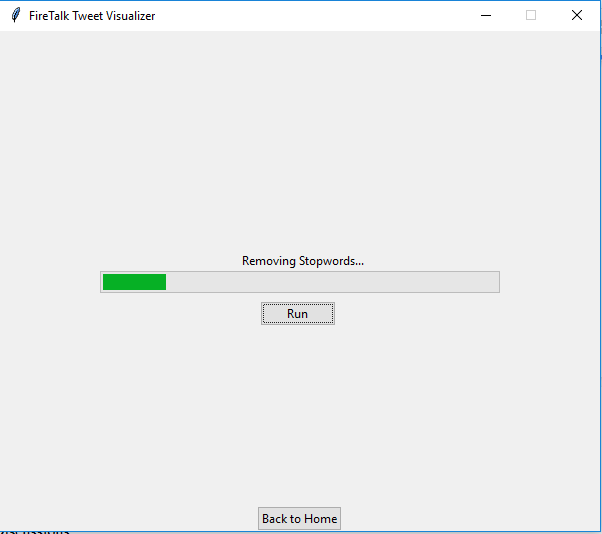
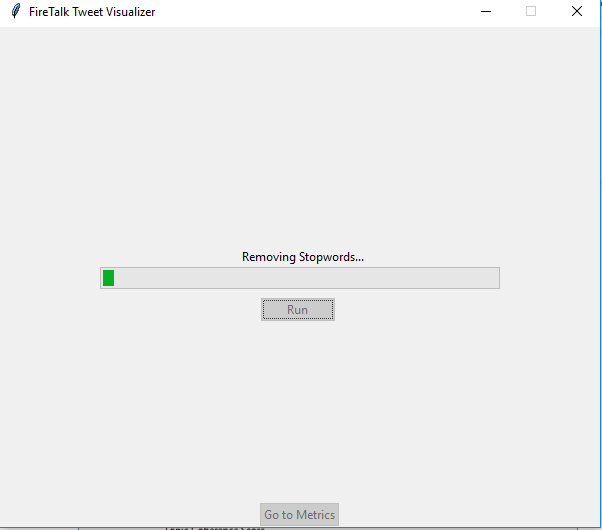
add metrics page

diff --git a/App.py b/App.py
@@ -61,7 +61,12 @@ from tkinter.ttk import *
 from tkinter import filedialog
 
 LARGE_FONT = ("Verdana", 12)
-# COHERENCE_VALUES = []
+
+# DISP_INTEGRITYS = []
+# DISP_SP_ENTROPYS = []
+# DISP_TOPIC_WEIGHTS = []
+# DISP_TC_SCORE = 0
+
 FILENAME = ""
 class App(tk.Tk):
 
@@ -79,7 +84,7 @@ class App(tk.Tk):
 
 		self.frames = {}
 
-		for F in (StartPage, LoadingPage, CoherencePage, TopicPage):
+		for F in (StartPage, LoadingPage, MetricsPage, TopicPage):
 			frame = F(container, self)
 			self.frames[F] = frame
 			frame.grid(row=0, column=0, sticky="nsew")
@@ -107,33 +112,16 @@ class StartPage(tk.Frame):
 	def open_file(self, controller):
 		global FILENAME
 		FILENAME = filedialog.askopenfilename(initialdir = "/",title = "Select file",filetypes = (("csv files","*.csv"),("all files","*.*")))
-		# setattr(self, 'file', file)
-		# t1 = threading.Thread(target=self.logic, args=(filename, controller, ))
-		# t1.start()
 		controller.show_frame(LoadingPage)
-		# LoadingPage.update_progressbar()
-		# lda(data_lemmatized)
-
-	def logic(self, filename, controller):
-		try:
-			tweets = import_dataset(filename)
-			data_lemmatized = preprocess(tweets)
-			lda(data_lemmatized)
-		except Exception as e:
-			# raise e
-			print("error")
-			controller.show_frame(StartPage)
 
 		
-
 class LoadingPage(tk.Frame):
-
 
 	def __init__(self, parent, controller):
 		tk.Frame.__init__(self, parent)
 		self.label = Label(self, text="")
 		self.test_button = Button(self, text="Run", command=lambda: self.holder(controller))
-		self.home_button = Button(self, text="Back to Home", command=lambda: [controller.show_frame(StartPage), self.reset(controller)])
+		self.home_button = Button(self, text="Go to Metrics", command=lambda: [controller.show_frame(MetricsPage), self.reset(controller)])
 		self.barVar = tk.DoubleVar()
 		self.barVar.set(0)
 		self.bar = Progressbar(self, length=400, variable=self.barVar)
@@ -197,16 +185,45 @@ class LoadingPage(tk.Frame):
 		self.test_button.config(state=NORMAL)
 
 
-
-
-class CoherencePage(tk.Frame):
+class MetricsPage(tk.Frame):
 
 	def __init__(self, parent, controller):
 		tk.Frame.__init__(self, parent)
 		home_button = Button(self, text="Back to Home", command=lambda: controller.show_frame(StartPage))
+		metrics_button = Button(self, text="Get Metrics", command=lambda: self.get_metrics(controller))
+		integrity_lbl = Label(self, text="Integrity Scores")
+		self.integrity_val = Label(self, text="")
+		sp_lbl = Label(self, text="Spatial Entropy Scores")
+		self.sp_val = Label(self, text="")
+		tw_lbl = Label(self, text="Topic Weights")
+		self.tw_val = Label(self, text="")
+		tc_lbl = Label(self, text="Topic Coherence Score")
+		self.tc_val = Label(self, text="")
 
+
+		integrity_lbl.place(x=100, y=100)
+		self.integrity_val.place(x=100, y=120)
+		sp_lbl.place(x=100, y=140)
+		self.sp_val.place(x=100, y=160)
+		tw_lbl.place(x=100, y=180)
+		self.tw_val.place(x=100, y=200)
+		tc_lbl.place(x=100, y=220)
+		self.tc_val.place(x=100, y=240)
+		metrics_button.place(x=260, y=300)
 		home_button.pack(side=BOTTOM)
 
+	def get_metrics(self, controller):
+		results = pd.read_csv('output_scores.csv', sep=',', skip_blank_lines=True, encoding = 'ISO-8859-1')
+		results_arrs = results.values.tolist()
+		data_row = results_arrs[0]
+		disp_integritys = data_row[1]
+		disp_sp_entropys = data_row[2]
+		disp_tw = data_row[3]
+		disp_tc = data_row[4]
+		self.integrity_val['text'] = str(disp_integritys)
+		self.sp_val['text'] = str(disp_sp_entropys)
+		self.tw_val['text'] = str(disp_tw)
+		self.tc_val['text'] = str(disp_tc)
 
 
 class TopicPage(tk.Frame):
@@ -215,7 +232,7 @@ class TopicPage(tk.Frame):
 		tk.Frame.__init__(self, parent)
 		label = Label(self, text="Loading...")
 		home_button = Button(self, text="Back to Home", command=lambda: controller.show_frame(StartPage))
-		coherence_button = Button(self, text="Back to Coherence", command=lambda: controller.show_frame(CoherencePage))
+		coherence_button = Button(self, text="Back to Coherence", command=lambda: controller.show_frame(MetricsPage))
 
 		label.place(relx=0.5, rely=0.5, anchor=CENTER)
 		home_button.pack(side=BOTTOM)
@@ -438,6 +455,7 @@ def lda(data_lemmatized):
 	coherence_lda = coherence_model_lda.get_coherence()
 
 	print('\nActual Coherence Score: ', coherence_lda)
+	DISP_TC_SCORE = coherence_lda
 	out = []
 	integritys = []   # integrity of topic
 	dists = []
@@ -480,6 +498,7 @@ def lda(data_lemmatized):
 	print(integry_std)
 	print("normalized_integritys")
 	print(normalized_integritys)
+	DISP_INTEGRITYS = normalized_integritys
 	for topic in doc_lda:
 		# print(topic)
 		for topic_num, prob in topic[0]:
@@ -509,6 +528,7 @@ def lda(data_lemmatized):
 
 	print("normalized_sp_entropys")
 	print(normalized_sp_entropys)
+	DISP_SP_ENTROPYS = normalized_sp_entropys
 	# check length
 	if (len(normalized_sp_entropys) < ideal_num_topics):
 		for i in range(ideal_num_topics - len(normalized_sp_entropys)):
@@ -523,11 +543,12 @@ def lda(data_lemmatized):
 
 	print("topic weights!!!!")
 	print(topic_weights)
+	DISP_TOPIC_WEIGHTS = topic_weights
 
 	with open('output_scores.csv', mode='w') as output_file:
 		output_writer = csv.writer(output_file, delimiter=',', quotechar='"', quoting=csv.QUOTE_MINIMAL)
 		output_writer.writerow(['Number of Topics', 'Integritys', 'Spatial Entropy', 'Topic Weights', 'Coherence Score'])
-		output_writer.writerow([len(topic_weights), normalized_integritys, normalized_sp_entropys, topic_weights, coherence_lda])
+		output_writer.writerow([len(topic_weights), normalized_integritys, normalized_sp_entropys, topic_weights, round(coherence_lda, 4)])
 	# print(integritys)
 
 
